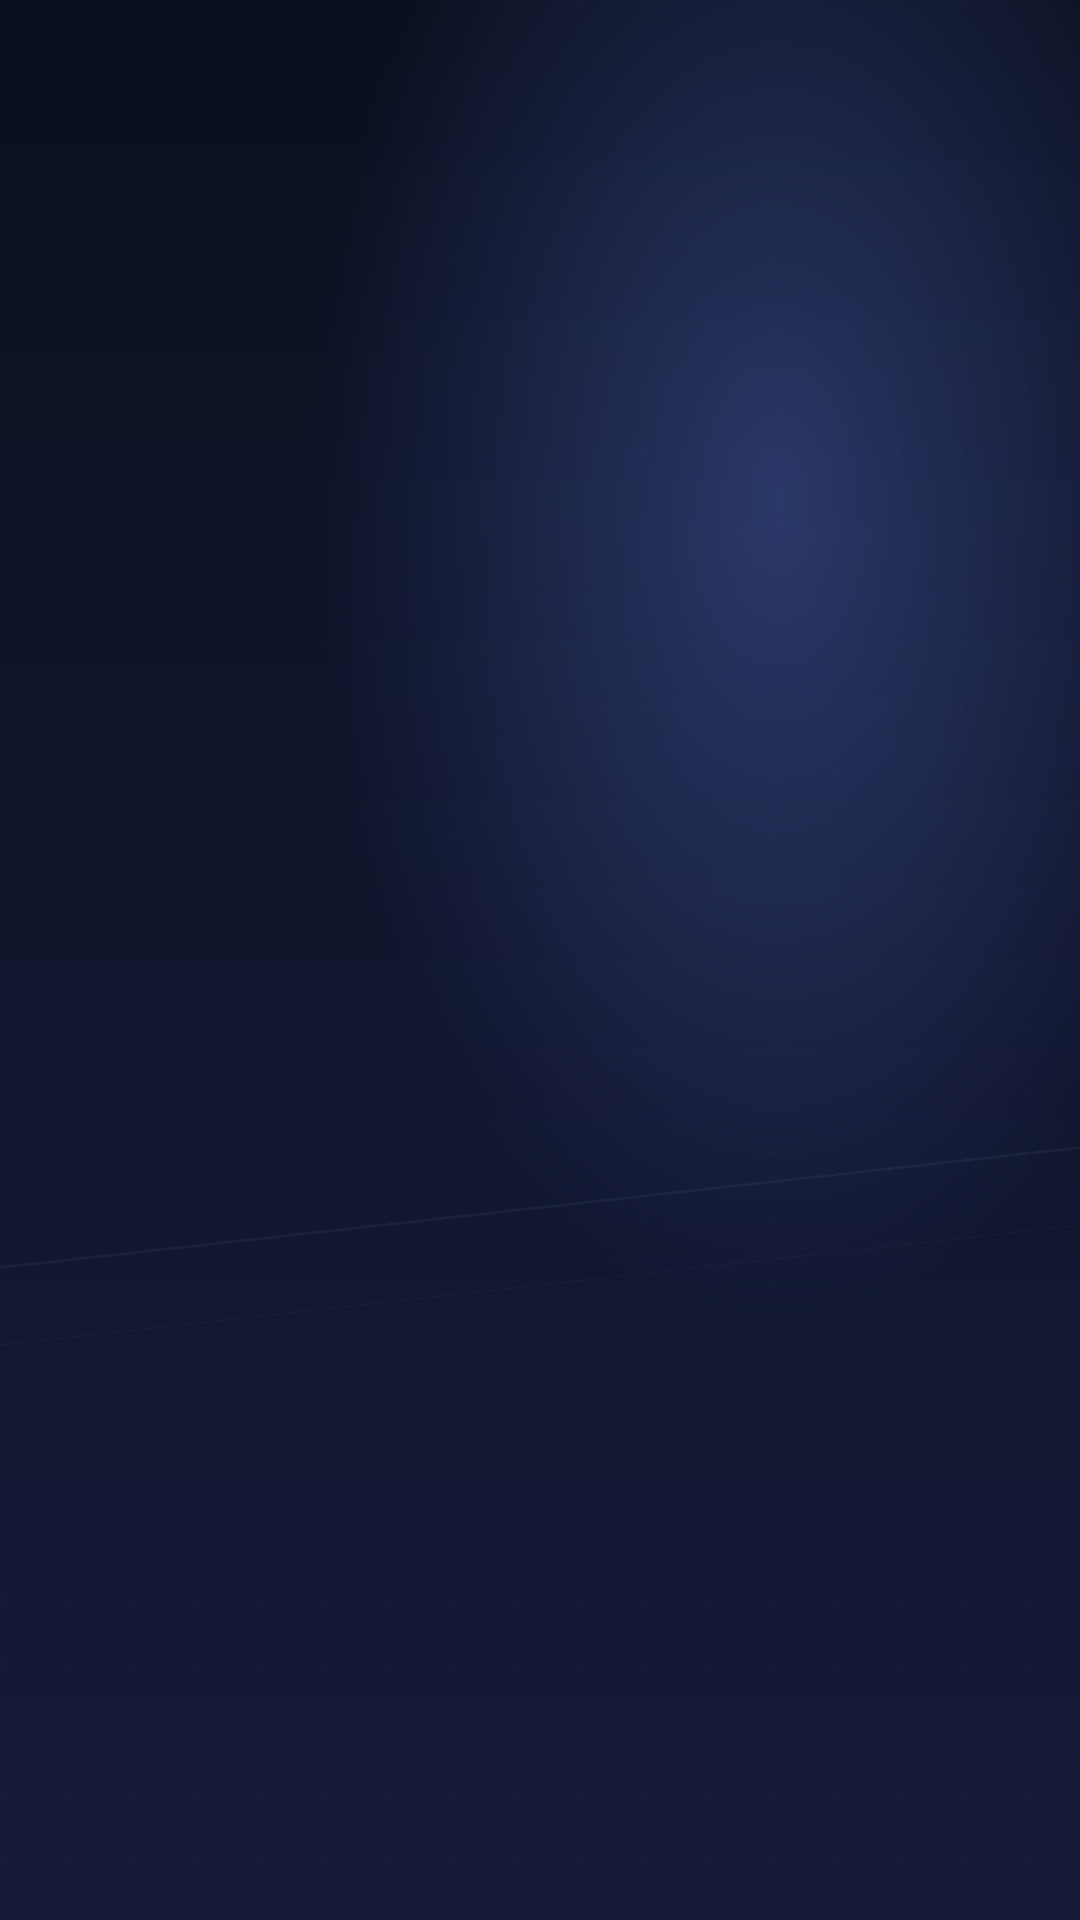
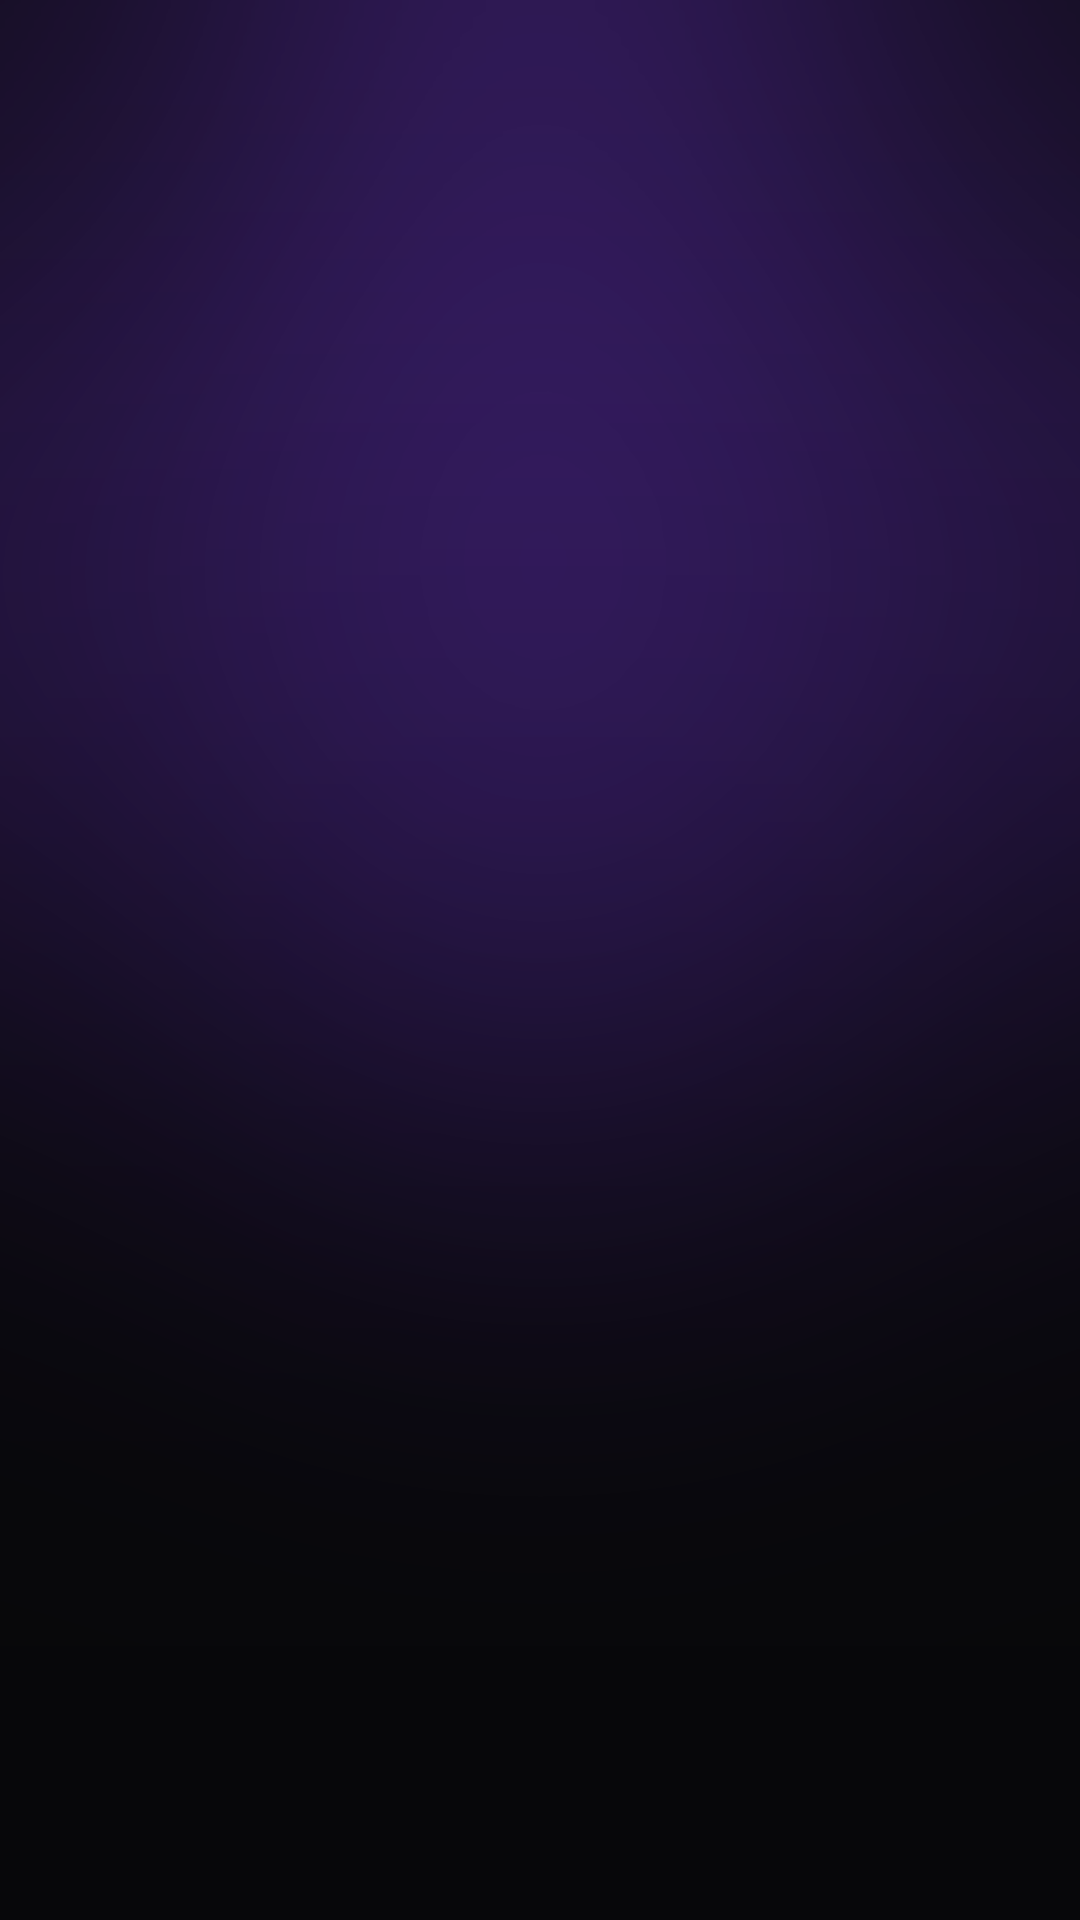
feat(brand): Jifunze brand refresh — drop .AI, new SVG mark and lockups
Repositions the product around "Your idea never sleeps." and retires the
old .AI branding and the "Create smarter, Grow faster." tagline, which
only ever existed baked into the logo PNG artwork.

Assets
- New SVG set in the canonical brand violet (--jf-brand #7c3aed):
  jifunze-mark.svg (512x512 square), jifunze-lockup-on-dark.svg and
  jifunze-lockup-on-light.svg (334.63x96).
- Wordmark is Plus Jakarta Sans ExtraBold converted to outlines via
  HarfBuzz shaping, so no font is embedded or loaded at runtime.
- The tagline is deliberately not inside any logo asset.
- public/favicon.svg replaced with the mark; legible at 16px.
- public/og-image.png (1200x630) with mark, wordmark and positioning
  line on the dark brand background, 11.3% side margins for card crops.

Component
- JifunzeBrandLogo now renders the SVGs. The compact variant used a 3:2
  PNG under square h/w classes and was visibly squashed; the new mark is
  genuinely square, so compact is undistorted.
- Artwork is decorative inside the link (the wrapper supplies the name)
  and labelled when standalone, so it is never announced twice.
- All public props and every existing call site are unchanged.

Video pipeline
- Watermark JIFUNZE.AI -> JIFUNZE; accent moved off blue to brand violet.
- Adds a closing end card (mark, wordmark, positioning line) inside the
  ASS caption layer only — no ffmpeg or provider changes.
- brand-bg.png regenerated from navy to the brand violet treatment.
[…]

diff --git a/render/src/captions.ts b/render/src/captions.ts
@@ -1,13 +1,24 @@
 import type { ProductionBrief } from './types.ts'
 
 /**
- * Kinetic ASS captions: bold white with a brand-accent keyword, a JIFUNZE.AI
- * mark, and progress dots. Far cleaner than plain centered text.
+ * Kinetic ASS captions: bold white with a brand-accent keyword, a JIFUNZE mark,
+ * progress dots, and a closing brand end card. Far cleaner than plain centered text.
+ *
+ * Brand colours are ASS BGR. Brand violet #7c3aed → &HED3A7C.
+ * The positioning line lives here as editable copy, never inside a logo asset.
  */
+const BRAND_VIOLET_BGR = 'ED3A7C'
+const POSITIONING_LINE = 'Your idea never sleeps.'
+/** Seconds reserved at the tail for the brand end card. */
+const END_CARD_SEC = 2.2
+
 export function buildAss(brief: ProductionBrief): string {
   const dur = Math.min(Math.max(brief.duration_sec ?? 18, 8), 60)
+  // Never let the end card eat more than a third of a short clip.
+  const endCard = Math.min(END_CARD_SEC, dur / 3)
+  const body = Math.max(dur - endCard, dur / 2)
   const beats = [brief.hook, ...brief.segments].filter(Boolean)
-  const per = dur / beats.length
+  const per = body / beats.length
 
   const t = (sec: number) => {
     const m = Math.floor((sec % 3600) / 60)
@@ -16,25 +27,33 @@ export function buildAss(brief: ProductionBrief): string {
   }
   const esc = (s: string) => s.replace(/\\/g, '').replace(/[{}]/g, '').toUpperCase()
 
-  // accent the first "significant" word (>4 chars) of each beat, in brand blue.
+  // accent the first "significant" word (>4 chars) of each beat, in brand violet.
   const accent = (line: string) => {
     const words = esc(line).split(' ')
     const i = words.findIndex((w) => w.replace(/[^A-Z]/g, '').length > 4)
     if (i < 0) return esc(line)
-    words[i] = `{\\c&HDCB978&}${words[i]}{\\c&HFFFFFF&}`
+    words[i] = `{\\c&H${BRAND_VIOLET_BGR}&}${words[i]}{\\c&HFFFFFF&}`
     return words.join(' ')
   }
 
   const events = beats.map((text, i) => {
-    const st = t(i * per), en = t(Math.min((i + 1) * per, dur))
+    const st = t(i * per), en = t(Math.min((i + 1) * per, body))
     const fx = '{\\fad(120,120)\\fscx88\\fscy88\\t(0,200,\\fscx100\\fscy100)}'
     return `Dialogue: 0,${st},${en},Cap,,0,0,0,,${fx}${accent(text)}`
   })
   const dots = beats.map((_, i) => {
-    const st = t(i * per), en = t(Math.min((i + 1) * per, dur))
+    const st = t(i * per), en = t(Math.min((i + 1) * per, body))
     const bar = beats.map((_, j) => (j <= i ? '●' : '○')).join(' ')
     return `Dialogue: 0,${st},${en},Dots,,0,0,0,,${bar}`
   })
+
+  // Brand end card: mark, wordmark, then the positioning line — each fading up in sequence.
+  const cardStart = t(body), cardEnd = t(dur)
+  const endCardEvents = [
+    `Dialogue: 1,${cardStart},${cardEnd},EndMark,,0,0,0,,{\\fad(220,160)\\pos(540,806)}»`,
+    `Dialogue: 1,${cardStart},${cardEnd},EndWord,,0,0,0,,{\\fad(320,160)\\pos(540,966)}JIFUNZE`,
+    `Dialogue: 1,${cardStart},${cardEnd},EndLine,,0,0,0,,{\\fad(460,160)\\pos(540,1074)}${POSITIONING_LINE}`,
+  ]
 
   return `[Script Info]
 ScriptType: v4.00+
@@ -45,13 +64,17 @@ WrapStyle: 0
 [V4+ Styles]
 Format: Name, Fontname, Fontsize, PrimaryColour, OutlineColour, BackColour, Bold, Outline, Shadow, Alignment, MarginL, MarginR, MarginV, Encoding
 Style: Cap,DejaVu Sans,100,&H00FFFFFF,&H00201810,&H90000000,1,5,3,5,96,96,0,1
-Style: Brand,DejaVu Sans,40,&H00DCB978,&H00201810,&H00000000,1,3,0,7,70,0,90,1
+Style: Brand,DejaVu Sans,40,&H00${BRAND_VIOLET_BGR},&H00201810,&H00000000,1,3,0,7,70,0,90,1
 Style: Dots,DejaVu Sans,40,&H80FFFFFF,&H00000000,&H00000000,0,0,0,2,0,0,180,1
+Style: EndMark,DejaVu Sans,170,&H00${BRAND_VIOLET_BGR},&H00201810,&H00000000,1,0,0,5,0,0,0,1
+Style: EndWord,DejaVu Sans,118,&H00FFFFFF,&H00201810,&H00000000,1,0,0,5,0,0,0,1
+Style: EndLine,DejaVu Sans,58,&H00E8E8EE,&H00201810,&H00000000,0,0,0,5,0,0,0,1
 
 [Events]
 Format: Layer, Start, End, Style, Name, MarginL, MarginR, MarginV, Effect, Text
-Dialogue: 0,0:00:00.00,${t(dur)},Brand,,0,0,0,,JIFUNZE.AI
+Dialogue: 0,0:00:00.00,${t(body)},Brand,,0,0,0,,JIFUNZE
 ${events.join('\n')}
 ${dots.join('\n')}
+${endCardEvents.join('\n')}
 `
 }

diff --git a/src/components/brand/JifunzeBrandLogo.tsx b/src/components/brand/JifunzeBrandLogo.tsx
@@ -1,7 +1,7 @@
 import { Link } from 'react-router-dom'
-import logoIcon from '../../assets/branding/jifunze-logo-icon.png'
-import logoLight from '../../assets/branding/jifunze-logo-light.png'
-import logoDark from '../../assets/branding/jifunze-logo-dark.png'
+import markSrc from '../../assets/branding/jifunze-mark.svg'
+import lockupOnDark from '../../assets/branding/jifunze-lockup-on-dark.svg'
+import lockupOnLight from '../../assets/branding/jifunze-lockup-on-light.svg'
 
 type Props = {
   /** Link target; use `null` for non-link (e.g. header title only). */
@@ -15,6 +15,8 @@ type Props = {
 
 // Sizing rules — bumped overall so the logo reads as a real brand mark, not a favicon.
 // `sm` is now the minimum for top nav, `xxl` is the hero size used on auth and maintenance.
+// `compact` uses the square mark (512×512), so equal h/w classes are correct here — the
+// horizontal lockup is 334.63×96 and must keep `w-auto` so it is never squeezed to square.
 const sizeClasses = {
   sm: {
     full: 'h-9 sm:h-10',
@@ -39,7 +41,10 @@ const sizeClasses = {
 } as const
 
 /**
- * Public brand lockup using the production logo assets.
+ * Public brand lockup using the production SVG assets.
+ *
+ * The tagline is deliberately NOT part of any logo asset — positioning copy stays
+ * editable in page-level markup.
  */
 export function JifunzeBrandLogo({
   to = '/',
@@ -50,13 +55,17 @@ export function JifunzeBrandLogo({
 }: Props) {
   const isCompact = variant === 'compact'
   const onLight = surface === 'light'
-  const fullLogoSrc = onLight ? logoDark : logoLight
+  const lockupSrc = onLight ? lockupOnLight : lockupOnDark
+  // Inside a link the wrapper supplies the accessible name, so the artwork is decorative.
+  // Standalone (`to === null`) the full lockup is the only thing to announce; in the compact
+  // variant the adjacent "Jifunze" text always carries the name, so the mark stays decorative.
+  const isLinked = to !== null
   const inner = (
     <span className={`inline-flex items-center gap-2.5 ${className}`}>
       {isCompact ? (
         <>
           <img
-            src={logoIcon}
+            src={markSrc}
             alt=""
             width={48}
             height={48}
@@ -67,14 +76,14 @@ export function JifunzeBrandLogo({
             className={`font-semibold tracking-tight ${onLight ? 'text-zinc-900' : 'text-zinc-100'}`}
           >
             Jifunze
-            <span className={onLight ? 'text-zinc-600' : 'text-zinc-400'}>.AI</span>
           </span>
         </>
       ) : (
         <img
-          src={fullLogoSrc}
-          alt="Jifunze.AI"
-          height={40}
+          src={lockupSrc}
+          alt={isLinked ? '' : 'Jifunze'}
+          width={335}
+          height={96}
           className={`${sizeClasses[size].full} w-auto shrink-0`}
           decoding="async"
         />
@@ -89,7 +98,7 @@ export function JifunzeBrandLogo({
   return (
     <Link
       to={to}
-      aria-label="Jifunze.AI home"
+      aria-label="Jifunze"
       className="inline-flex items-center outline-none ring-zinc-400/35 focus-visible:ring-2"
     >
       {inner}

diff --git a/index.html b/index.html
@@ -4,7 +4,36 @@
     <meta charset="UTF-8" />
     <link rel="icon" type="image/svg+xml" href="/favicon.svg" />
     <meta name="viewport" content="width=device-width, initial-scale=1.0" />
-    <title>Jifunze.AI — AI social content</title>
+    <meta name="theme-color" content="#7c3aed" />
+
+    <title>Jifunze — Your idea never sleeps.</title>
+    <meta
+      name="description"
+      content="Turn one idea into an always-on content pipeline that creates, adapts, and prepares content for every channel."
+    />
+    <link rel="canonical" href="https://jifunze.ai/" />
+
+    <meta property="og:type" content="website" />
+    <meta property="og:site_name" content="Jifunze" />
+    <meta property="og:url" content="https://jifunze.ai/" />
+    <meta property="og:title" content="Jifunze — Your idea never sleeps." />
+    <meta
+      property="og:description"
+      content="Turn one idea into an always-on content pipeline that creates, adapts, and prepares content for every channel."
+    />
+    <meta property="og:image" content="https://jifunze.ai/og-image.png" />
+    <meta property="og:image:width" content="1200" />
+    <meta property="og:image:height" content="630" />
+    <meta property="og:image:alt" content="Jifunze — Your idea never sleeps." />
+
+    <meta name="twitter:card" content="summary_large_image" />
+    <meta name="twitter:title" content="Jifunze — Your idea never sleeps." />
+    <meta
+      name="twitter:description"
+      content="Turn one idea into an always-on content pipeline that creates, adapts, and prepares content for every channel."
+    />
+    <meta name="twitter:image" content="https://jifunze.ai/og-image.png" />
+    <meta name="twitter:image:alt" content="Jifunze — Your idea never sleeps." />
   </head>
   <body>
     <div id="root"></div>

diff --git a/src/components/brand/JifunzeAuthSectionBrandMark.tsx b/src/components/brand/JifunzeAuthSectionBrandMark.tsx
@@ -1,4 +1,4 @@
-import logoLight from '../../assets/branding/jifunze-logo-light.png'
+import lockupOnDark from '../../assets/branding/jifunze-lockup-on-dark.svg'
 
 /**
  * Ambient brand mark for the homepage auth “save & continue” column: centered logo with
@@ -15,10 +15,10 @@ export function JifunzeAuthSectionBrandMark() {
       </div>
       <div className="pointer-events-none absolute inset-x-[12%] top-1/2 z-0 h-px -translate-y-1/2 bg-gradient-to-r from-transparent via-white/[0.08] to-transparent" aria-hidden />
       <img
-        src={logoLight}
+        src={lockupOnDark}
         alt=""
-        width={760}
-        height={220}
+        width={335}
+        height={96}
         className="jifunze-auth-brand-mark relative z-[1] w-[min(100%,23rem)] max-w-full opacity-[0.18] mix-blend-screen contrast-[1.18] brightness-125 drop-shadow-[0_10px_26px_rgba(0,0,0,0.24)] sm:w-[min(100%,27rem)] sm:opacity-[0.2]"
         decoding="async"
       />

diff --git a/src/components/maintenance/PublicMaintenancePage.tsx b/src/components/maintenance/PublicMaintenancePage.tsx
@@ -20,7 +20,7 @@ export function PublicMaintenancePage() {
       <div className="relative z-10 mx-auto flex min-h-screen max-w-2xl flex-col items-center justify-center px-6 py-16 text-center sm:px-8">
         <div className="mb-10 flex flex-col items-center gap-5">
           <JifunzeBrandLogo to={null} size="xxl" surface="light" className="justify-center" />
-          <p className="text-[11px] font-semibold uppercase tracking-[0.22em] text-orange-700">Jifunze.AI</p>
+          <p className="text-[11px] font-semibold uppercase tracking-[0.22em] text-orange-700">Jifunze</p>
         </div>
 
         <div className="w-full max-w-xl rounded-2xl border border-orange-100/90 bg-white px-6 py-10 shadow-[0_22px_50px_-20px_rgba(120,53,15,0.18)] sm:px-10 sm:py-12">

diff --git a/src/components/auth/AuthSignInPage.tsx b/src/components/auth/AuthSignInPage.tsx
@@ -17,7 +17,7 @@ export function AuthSignInPage() {
         <header className="flex flex-col items-center gap-7 pb-10 text-center">
           <JifunzeBrandLogo to="/" size="xxl" surface="light" />
           <div className="space-y-3">
-            <p className="text-[11px] font-semibold uppercase tracking-[0.22em] text-orange-700">Jifunze.AI</p>
+            <p className="text-[11px] font-semibold uppercase tracking-[0.22em] text-orange-700">Jifunze</p>
             <h1 className="text-balance text-[1.7rem] font-semibold tracking-tight text-stone-900 sm:text-[2rem] sm:leading-[1.15]">
               Sign in to continue learning
             </h1>

diff --git a/src/components/auth/AuthSignUpPage.tsx b/src/components/auth/AuthSignUpPage.tsx
@@ -16,7 +16,7 @@ export function AuthSignUpPage() {
         <header className="flex flex-col items-center gap-7 pb-10 text-center">
           <JifunzeBrandLogo to="/" size="xxl" surface="light" />
           <div className="space-y-3">
-            <p className="text-[11px] font-semibold uppercase tracking-[0.22em] text-orange-700">Jifunze.AI</p>
+            <p className="text-[11px] font-semibold uppercase tracking-[0.22em] text-orange-700">Jifunze</p>
             <h1 className="text-balance text-[1.7rem] font-semibold tracking-tight text-stone-900 sm:text-[2rem] sm:leading-[1.15]">
               Create your free account
             </h1>

diff --git a/src/components/learner-shell/LearnerRouteReady.tsx b/src/components/learner-shell/LearnerRouteReady.tsx
@@ -61,7 +61,7 @@ export function LearnerRouteReady({ children }: { children: React.ReactNode }) {
     return (
       <div className="mx-auto flex min-h-[min(70vh,48rem)] w-full max-w-2xl flex-col items-center justify-center space-y-6 px-4 py-12 text-center text-stone-800">
         <header className="space-y-2">
-          <h1 className="text-2xl font-semibold text-zinc-900">Jifunze.AI</h1>
+          <h1 className="text-2xl font-semibold text-zinc-900">Jifunze</h1>
           <p className="text-sm text-stone-600">Sign in to continue.</p>
         </header>
         <div className="flex justify-center">

diff --git a/src/components/legal/TermsOfServicePage.tsx b/src/components/legal/TermsOfServicePage.tsx
@@ -4,7 +4,7 @@ export function TermsOfServicePage() {
   return (
     <PolicyChrome title="Terms of Service" eyebrow="Legal">
       <p>
-        These Terms describe how you may use Jifunze.AI (“Jifunze,” “we,” “us”). They are written to match the product as
+        These Terms describe how you may use Jifunze (“we,” “us”). They are written to match the product as
         it exists today. Specific payment, tax, and dispute rules may be refined when billing is connected to a payment
         processor and when counsel reviews regional requirements.
       </p>

diff --git a/src/components/PublicSocialLinks.tsx b/src/components/PublicSocialLinks.tsx
@@ -1,7 +1,7 @@
 const SOCIALS = [
   { name: 'TikTok', handle: '@jifunze_ai', href: 'https://www.tiktok.com/@jifunze_ai' },
   { name: 'Instagram', handle: '@jifunze.ai', href: 'https://www.instagram.com/jifunze.ai' },
-  { name: 'X', handle: '@Jifunze.AI', href: 'https://x.com/JifunzeAI' },
+  { name: 'X', handle: '@JifunzeAI', href: 'https://x.com/JifunzeAI' },
 ] as const
 
 function DotIcon() {

diff --git a/src/lib/signedInWelcomeCopy.ts b/src/lib/signedInWelcomeCopy.ts
@@ -183,7 +183,7 @@ export function buildSignedInWelcomeCopy(input: {
 
   return {
     eyebrow: 'Start here',
-    title: 'Welcome to Jifunze.AI',
+    title: 'Welcome to Jifunze',
     lede: `You’re in ${ws}. Your content profile is ${profile}. ${hint}`,
     continuity: `${lead}: ${focus}. Start with a topic below whenever you’re ready.`,
     focusLabel: focus,

diff --git a/src/components/legal/PolicyChrome.tsx b/src/components/legal/PolicyChrome.tsx
@@ -13,7 +13,7 @@ type Props = {
 }
 
 export function PolicyChrome(props: Props) {
-  const { title, eyebrow = 'Jifunze.AI', children, lastUpdated = '2026-04-16' } = props
+  const { title, eyebrow = 'Jifunze', children, lastUpdated = '2026-04-16' } = props
 
   return (
     <div className="min-h-screen w-full bg-zinc-950 px-4 py-10 text-zinc-100">
